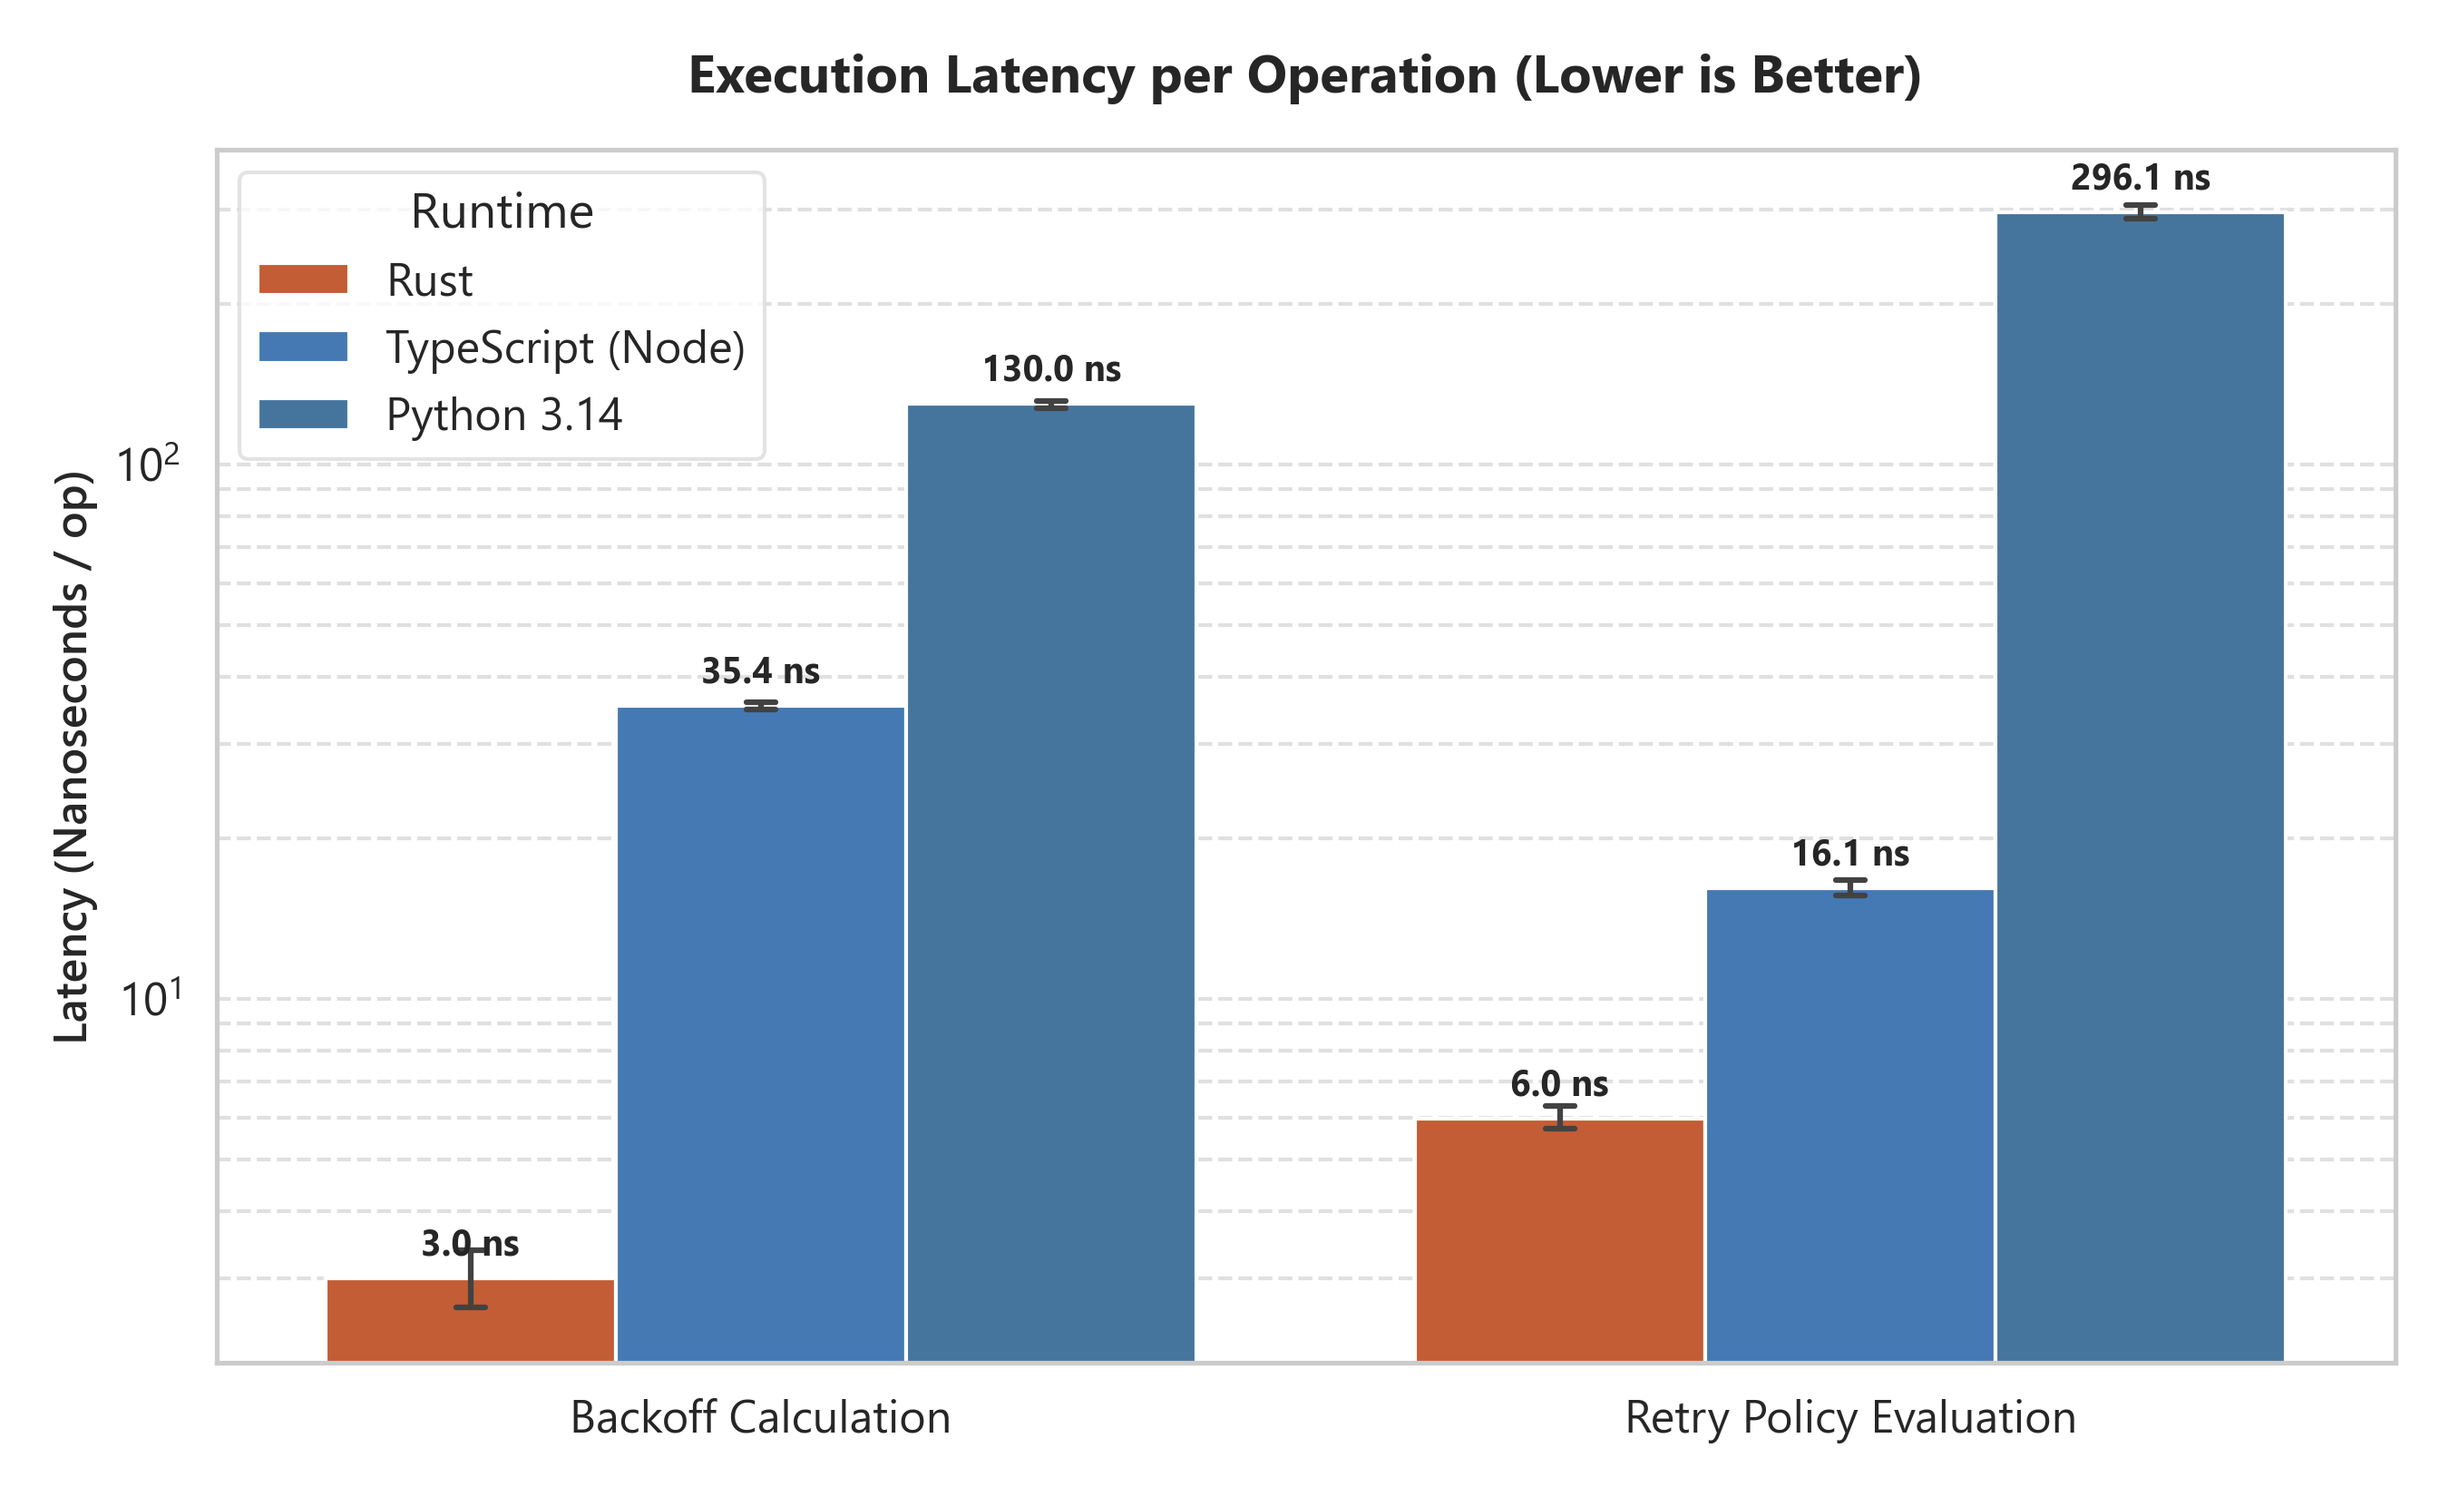
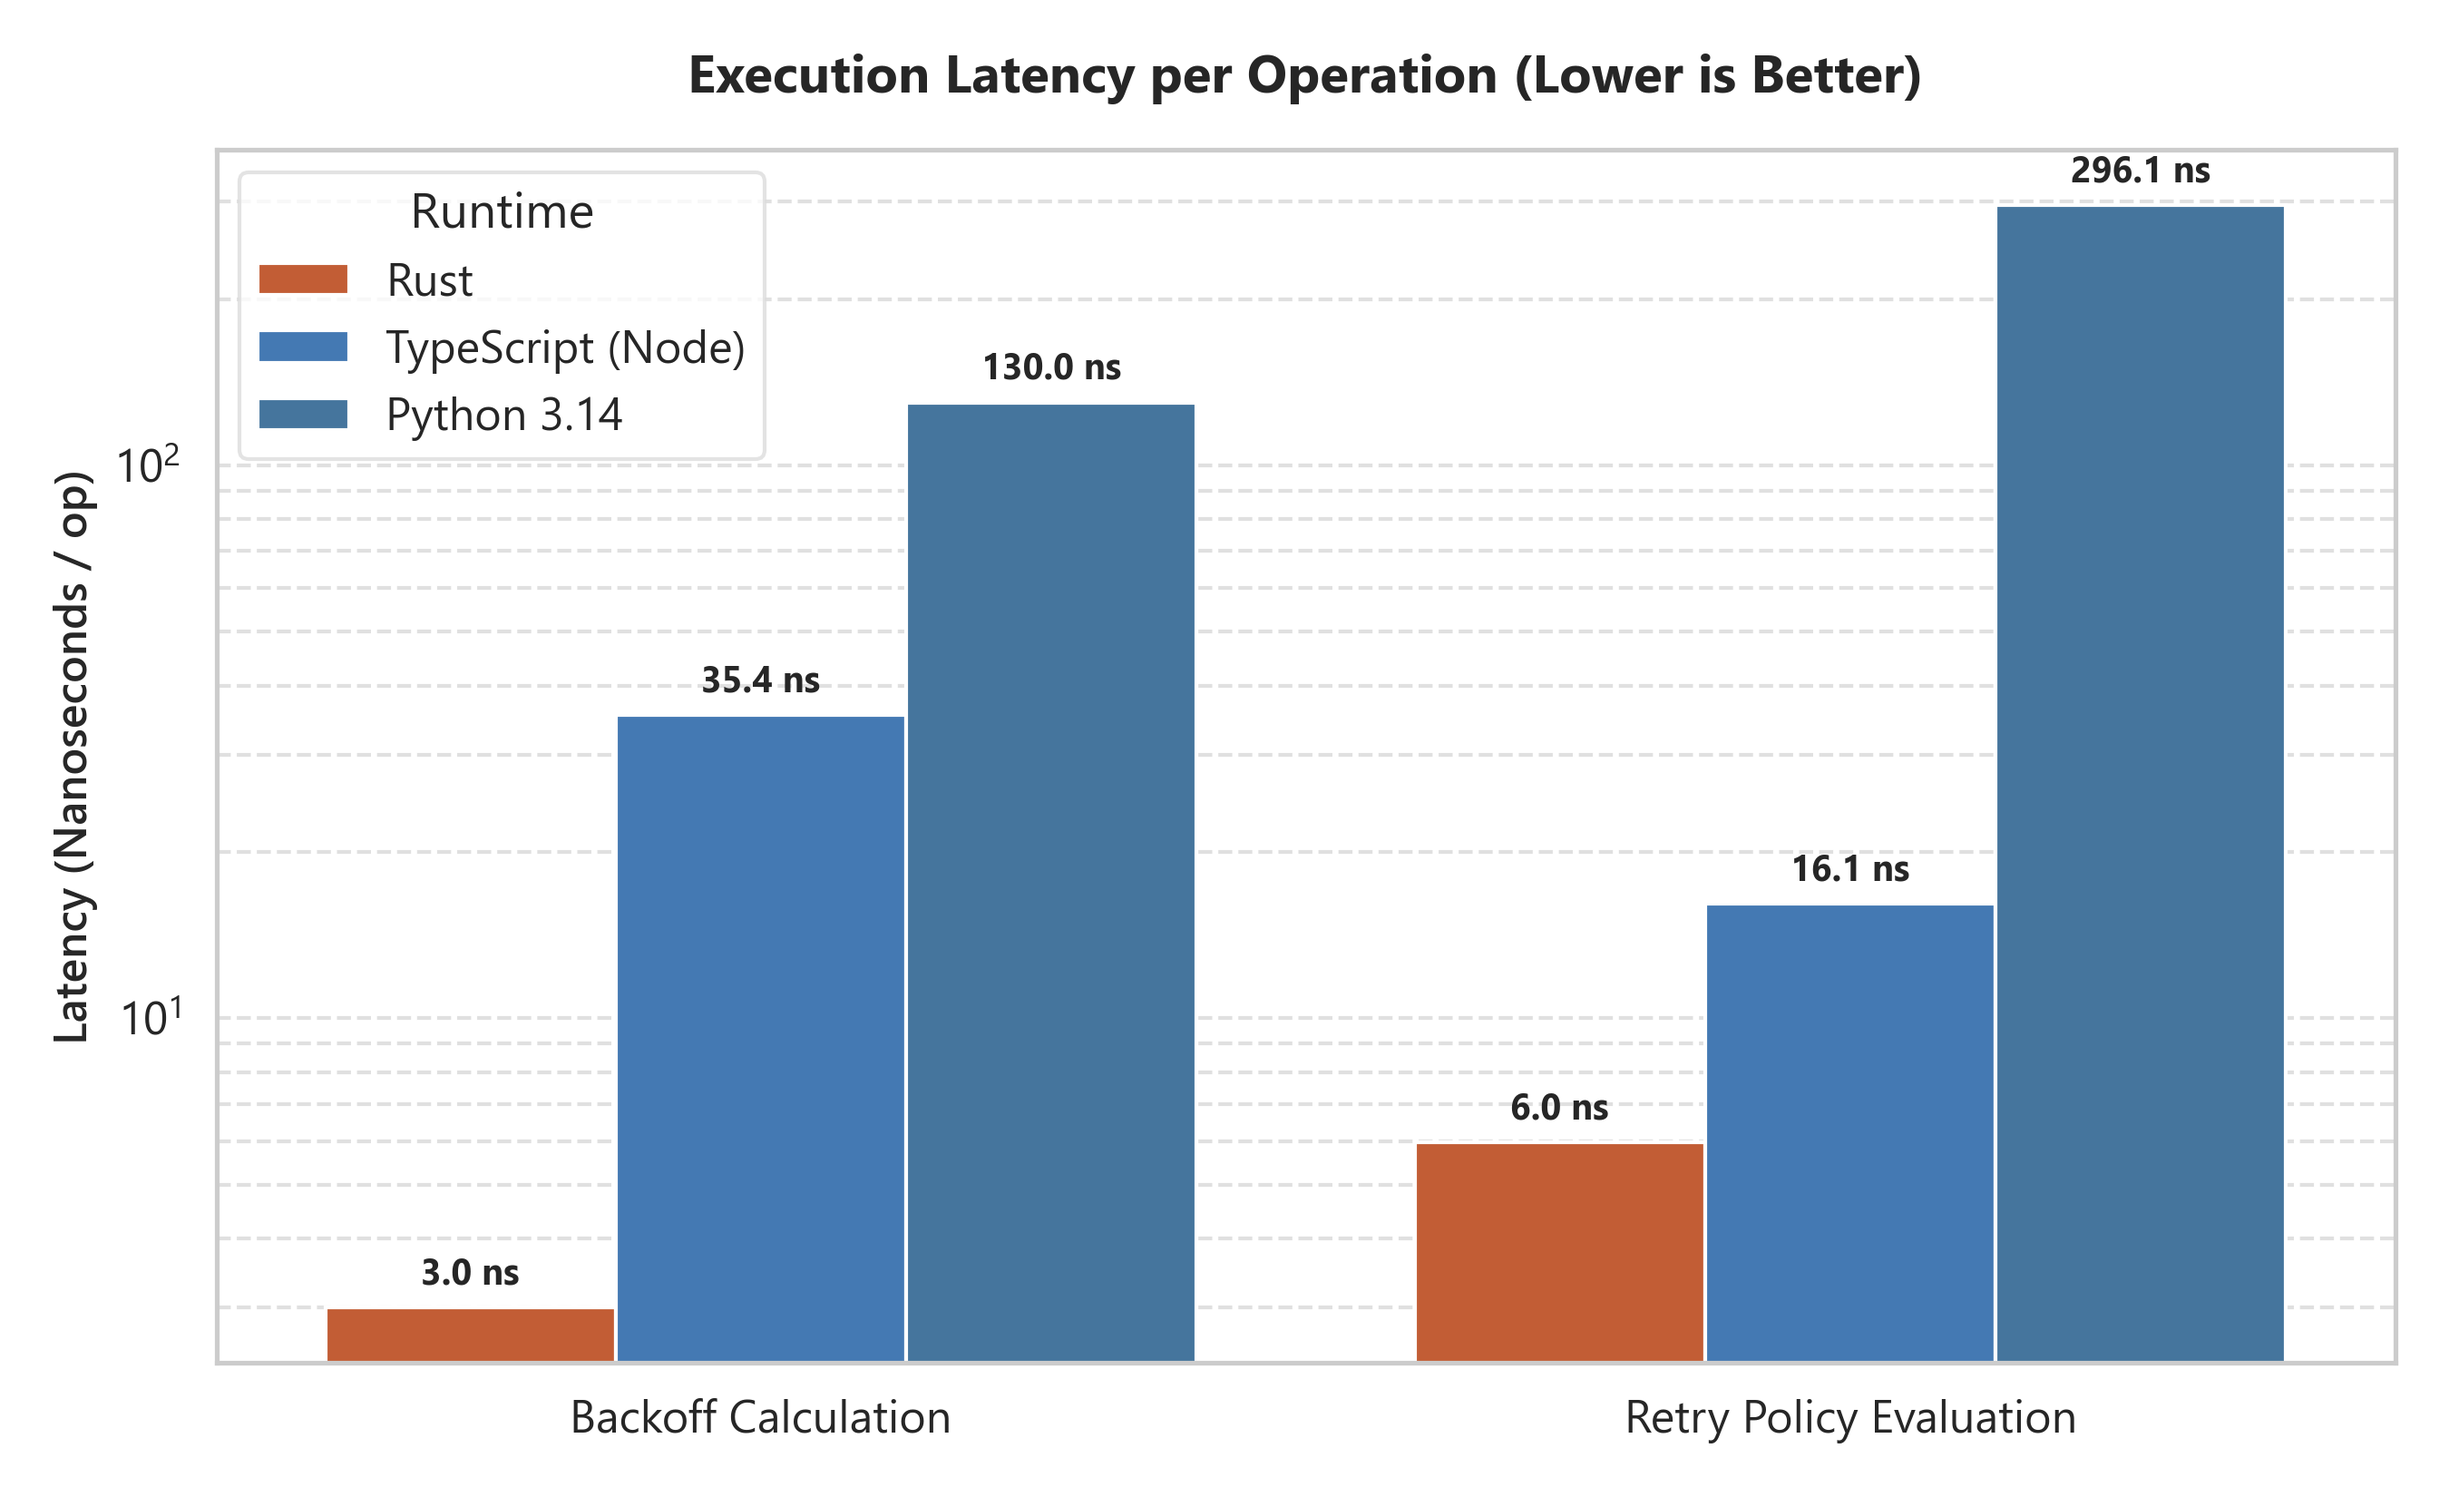
style(figures): remove overlapping error bar whiskers from benchmark charts

diff --git a/benchmarks/scripts/plot_results.py b/benchmarks/scripts/plot_results.py
@@ -51,8 +51,7 @@ ax = sns.barplot(
     y="ns_per_op",
     hue="Language",
     palette=colors,
-    capsize=0.08,
-    err_kws={"linewidth": 1.5},
+    errorbar=None,
 )
 
 plt.title("Execution Latency per Operation (Lower is Better)", fontsize=14, fontweight="bold", pad=15)
@@ -93,8 +92,7 @@ ax = sns.barplot(
     y="m_ops_sec",
     hue="Language",
     palette=colors,
-    capsize=0.08,
-    err_kws={"linewidth": 1.5},
+    errorbar=None,
 )
 
 plt.title("Execution Throughput (Higher is Better)", fontsize=14, fontweight="bold", pad=15)
@@ -135,8 +133,7 @@ sns.barplot(
     y="ns_per_op",
     hue="Language",
     palette=colors,
-    capsize=0.08,
-    err_kws={"linewidth": 1.5},
+    errorbar=None,
     ax=ax1,
 )
 ax1.set_title("A. Latency per Operation (Log Scale, Lower is Better)", fontsize=12, fontweight="bold")
@@ -166,8 +163,7 @@ sns.barplot(
     y="m_ops_sec",
     hue="Language",
     palette=colors,
-    capsize=0.08,
-    err_kws={"linewidth": 1.5},
+    errorbar=None,
     ax=ax2,
 )
 ax2.set_title("B. Throughput (Linear Scale, Higher is Better)", fontsize=12, fontweight="bold")
